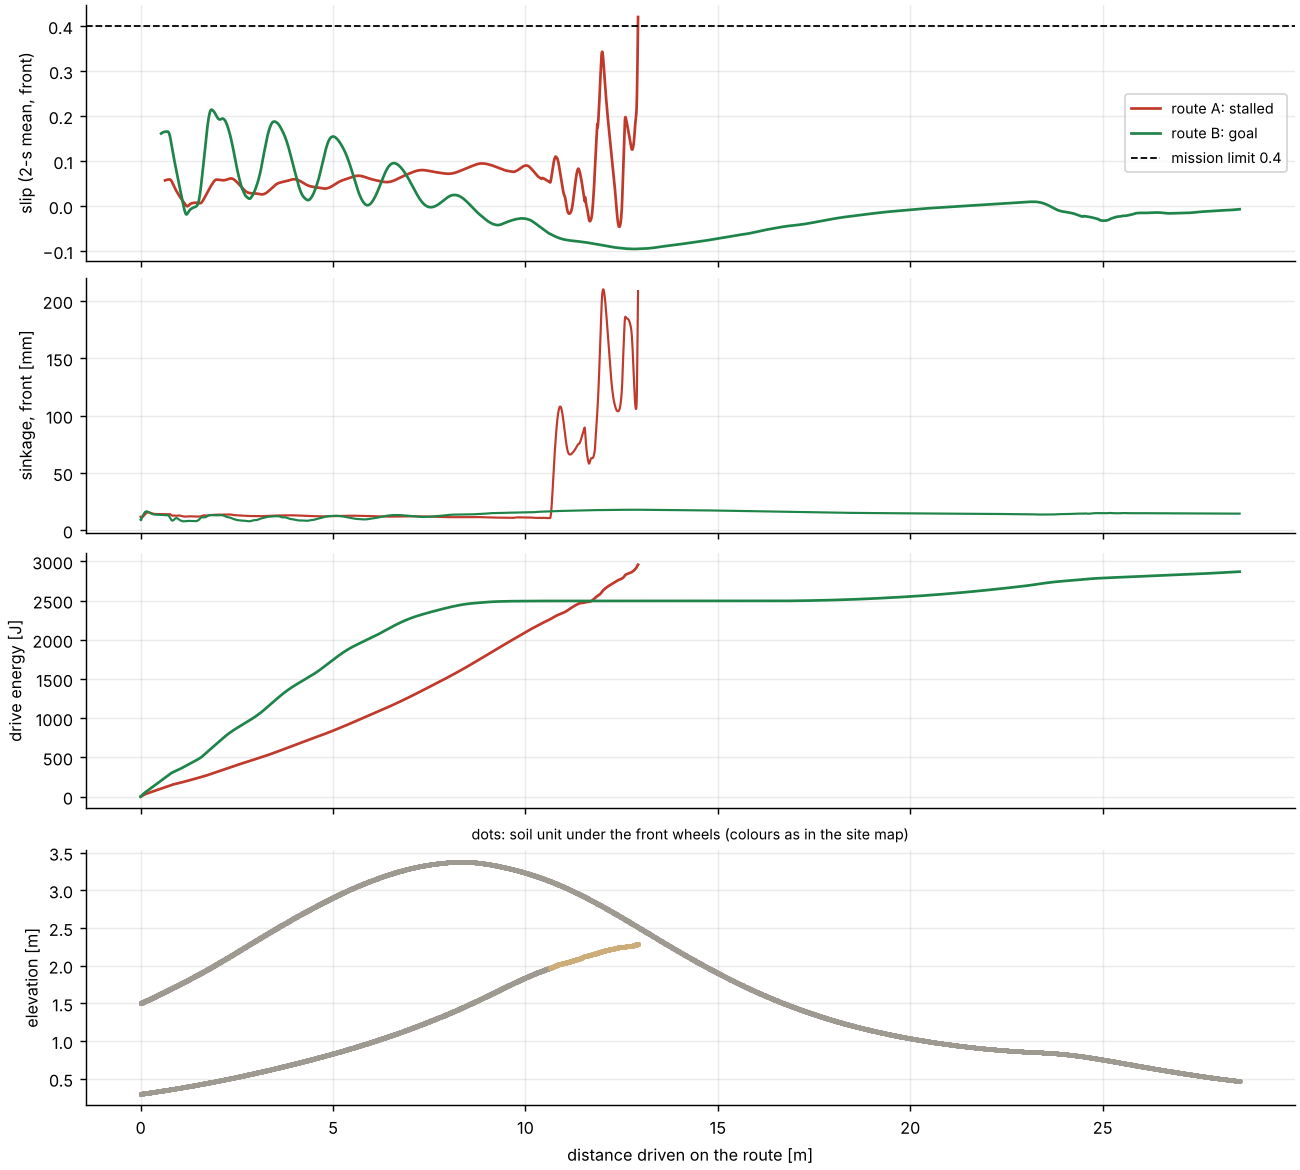
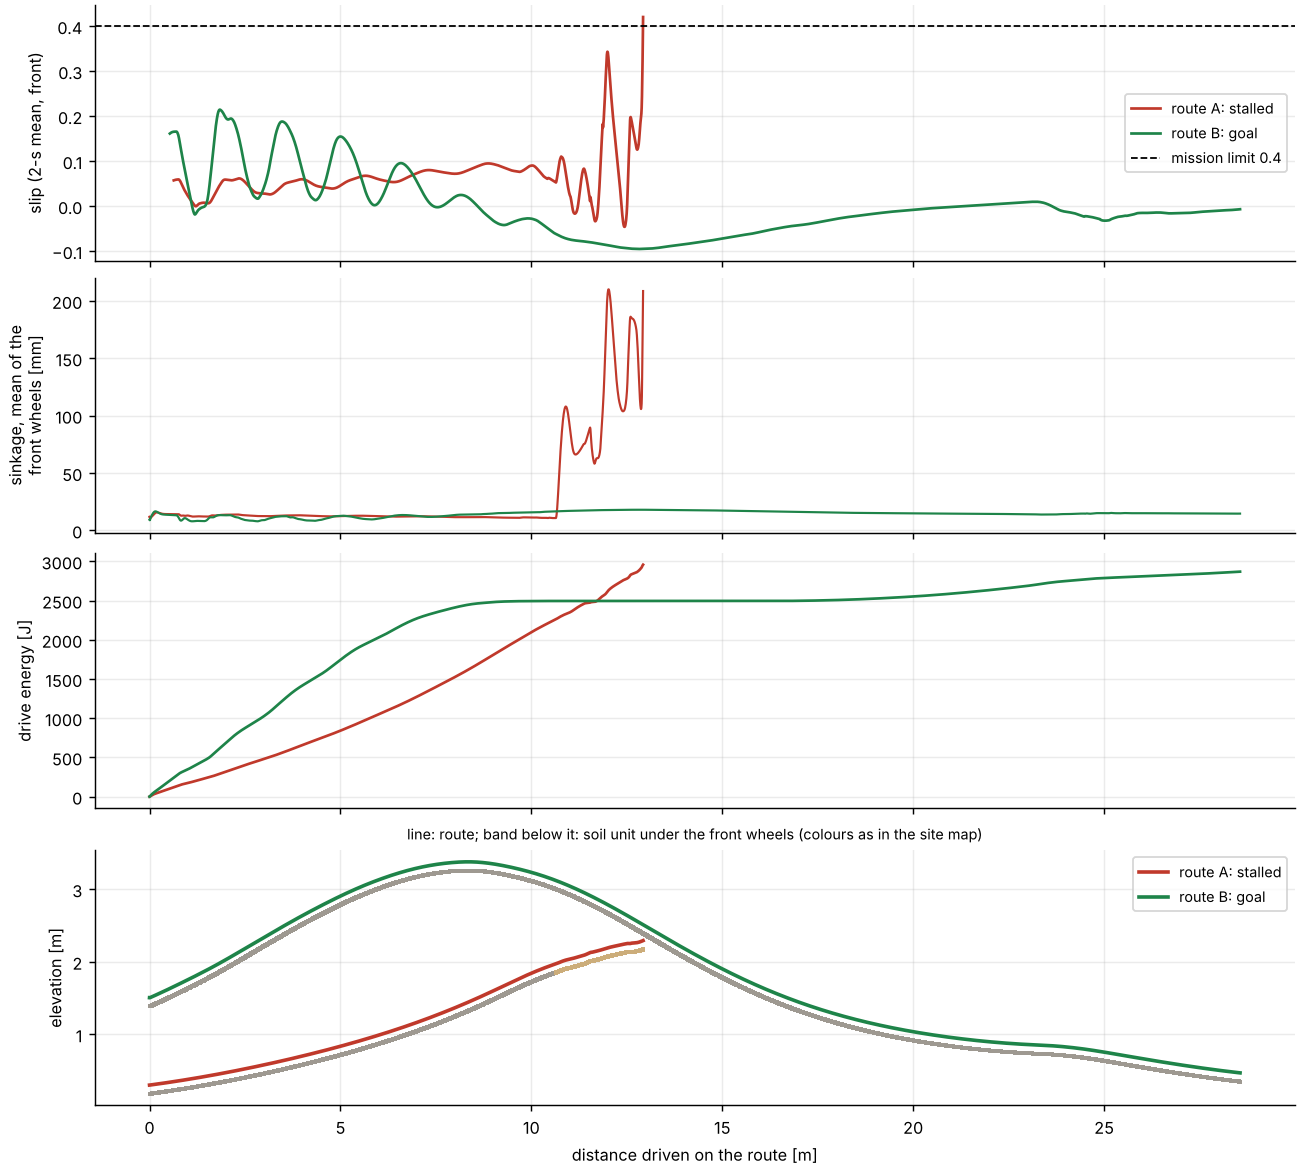
Rover demo: name the sinkage statistics (any wheel vs front-wheel mean) and label the routes in the elevation panel
Report, summary and traverse figure regenerated from the same committed run (no new simulation).

Claude-Session: https://claude.ai/code/session_01YNTs4fp9UgbKZyyf8Q4VTB

diff --git a/pinneapple_simulation/rover/autolab/report.py b/pinneapple_simulation/rover/autolab/report.py
@@ -62,7 +62,12 @@ def mission_numbers(mission, res) -> dict:
             "measured_multibody": {"ended": run.meta["ended"], "distance_m": s["distance_m"],
                                    "energy_J": s["energy_J"], "energy_per_m_J": s["energy_per_metre_J_m"],
                                    "max_slip_2s_front": float(np.nanmax(ms)), "max_slip_instant": s["max_slip"],
-                                   "max_sinkage_mm": s["max_sinkage_mm"], "sim_time_s": float(run.t[-1]),
+                                   "max_sinkage_mm": s["max_sinkage_mm"],
+                                   "max_sinkage_front_mean_mm": float(
+                                       1e3 * run.wheel["sinkage"][:, mission.front].mean(1).max()),
+                                   "max_sinkage_wheel": run.model.spec.corners[
+                                       int(np.argmax(run.wheel["sinkage"].max(0)))].name,
+                                   "sim_time_s": float(run.t[-1]),
                                    "wall_time_s": float(run.meta.get("wall_s", np.nan)),
                                    "end_xy": run.q[-1, :2]}})
     if res.retreat is not None:
@@ -136,13 +141,14 @@ def report_markdown(n: dict) -> str:
          "All numbers below were measured in this run (multibody simulation on the true terrain, or the planner's "
          "prediction where marked).", "", "## Routes", "",
          "| Route | Planned with | Predicted max risk (then) | Predicted max risk (learned) | Measured outcome | "
-         "Distance [m] | Drive energy [J] | Max 2-s slip | Max sinkage [mm] |",
-         "|---|---|---|---|---|---|---|---|---|"]
+         "Distance [m] | Drive energy [J] | Max 2-s slip | Max sinkage, any wheel [mm] | Max sinkage, front mean [mm] |",
+         "|---|---|---|---|---|---|---|---|---|---|"]
     for r in n["routes"]:
         m = r["measured_multibody"]
         L.append(f"| {r['name']} | {r['planned_with']} | {r['predicted_when_planned']['max_risk']:.3f} | "
                  f"{r['predicted_with_learned_belief']['max_risk']:.3f} | {m['ended']} | {m['distance_m']:.1f} | "
-                 f"{m['energy_J']:.0f} | {m['max_slip_2s_front']:.2f} | {m['max_sinkage_mm']:.0f} |")
+                 f"{m['energy_J']:.0f} | {m['max_slip_2s_front']:.2f} | {m['max_sinkage_mm']:.0f} "
+                 f"({m['max_sinkage_wheel']}) | {m['max_sinkage_front_mean_mm']:.0f} |")
     if n.get("retreat_point"):
         L += ["", f"After the stall the rover backs out on its own ruts to {tuple(round(v, 2) for v in n['retreat_point'])}"
               " (the reversal is not simulated) and drives route B from there."]

diff --git a/pinneapple_simulation/rover/autolab/visuals.py b/pinneapple_simulation/rover/autolab/visuals.py
@@ -140,25 +140,27 @@ def plot_traverse(runs, site, path, slip_limit=0.4, front=(0, 1)):
     fig, axs = plt.subplots(4, 1, figsize=(10, 9), sharex=True, constrained_layout=True)
     for i, run in enumerate(runs):
         c = ROUTE_COLORS[i % 3]
-        d = run.distance() + (0.0 if i == 0 else 0.0)
+        d = run.distance()
         lab = f"route {chr(65 + i)}: {run.meta['ended'].split(':')[0]}"
         axs[0].plot(d, monitor_slip(run, list(front)), color=c, lw=1.5, label=lab)
         axs[1].plot(d, 1e3 * run.wheel["sinkage"][:, list(front)].mean(1), color=c, lw=1.2)
         axs[2].plot(d, run.energy(), color=c, lw=1.5)
         z = site.height(run.q[:, 0], run.q[:, 1])
-        axs[3].plot(d, z, color=c, lw=1.0)
         u = run.wheel["soil_idx"][:, list(front)].max(1)
-        for k, unit in enumerate(site.units):
+        for k, unit in enumerate(site.units):            # soil under the front wheels, a band under the route line
             mk = u == k
-            axs[3].scatter(d[mk], z[mk], s=3, color=unit.color, zorder=3)
+            axs[3].scatter(d[mk], z[mk] - 0.12, s=4, color=unit.color, marker="s", linewidths=0, zorder=2)
+        axs[3].plot(d, z, color=c, lw=2.0, zorder=3, label=lab)
     axs[0].axhline(slip_limit, color="k", ls="--", lw=1, label=f"mission limit {slip_limit:g}")
     axs[0].set_ylabel("slip (2-s mean, front)")
     axs[0].legend(fontsize=8)
-    axs[1].set_ylabel("sinkage, front [mm]")
+    axs[1].set_ylabel("sinkage, mean of the\nfront wheels [mm]")
     axs[2].set_ylabel("drive energy [J]")
     axs[3].set_ylabel("elevation [m]")
     axs[3].set_xlabel("distance driven on the route [m]")
-    axs[3].set_title("dots: soil unit under the front wheels (colours as in the site map)", fontsize=8)
+    axs[3].legend(fontsize=8)
+    axs[3].set_title("line: route; band below it: soil unit under the front wheels (colours as in the site map)",
+                     fontsize=8)
     fig.savefig(path)
     plt.close(fig)
     return path

diff --git a/examples/autolab_rover/results/report.md b/examples/autolab_rover/results/report.md
@@ -10,10 +10,10 @@ All numbers below were measured in this run (multibody simulation on the true te
 
 ## Routes
 
-| Route | Planned with | Predicted max risk (then) | Predicted max risk (learned) | Measured outcome | Distance [m] | Drive energy [J] | Max 2-s slip | Max sinkage [mm] |
-|---|---|---|---|---|---|---|---|---|
-| A | orbital prior | 0.042 | 1.000 | stalled: mean slip 0.42 over 2 s > limit 0.4 | 12.9 | 2958 | 0.42 | 319 |
-| B | learned belief #1 | 0.000 | 0.000 | goal | 28.6 | 2869 | 0.21 | 31 |
+| Route | Planned with | Predicted max risk (then) | Predicted max risk (learned) | Measured outcome | Distance [m] | Drive energy [J] | Max 2-s slip | Max sinkage, any wheel [mm] | Max sinkage, front mean [mm] |
+|---|---|---|---|---|---|---|---|---|---|
+| A | orbital prior | 0.042 | 1.000 | stalled: mean slip 0.42 over 2 s > limit 0.4 | 12.9 | 2958 | 0.42 | 319 (RL) | 210 |
+| B | learned belief #1 | 0.000 | 0.000 | goal | 28.6 | 2869 | 0.21 | 31 (RL) | 18 |
 
 After the stall the rover backs out on its own ruts to (11.63, 6.06) (the reversal is not simulated) and drives route B from there.
 

diff --git a/docs/guides/rover_learns_the_planet.md b/docs/guides/rover_learns_the_planet.md
@@ -32,7 +32,8 @@ Python 3.13.17, NumPy 2.5.3, Blender 5.1.2); mission 389 s:
 | distance driven | 12.9 m | 28.6 m |
 | drive energy | 2958 J | 2869 J |
 | largest 2-s slip | 0.42 | 0.21 |
-| largest sinkage | 319 mm | 31 mm |
+| largest sinkage, any wheel | 319 mm (rear left) | 31 mm (rear left) |
+| largest sinkage, mean of the front wheels | 210 mm | 18 mm |
 | risk under the learned belief | 1.00 | 0.00 |
 
 Learned soft sand against the hidden truth: log10 k_phi 4.85 (true 4.78),
